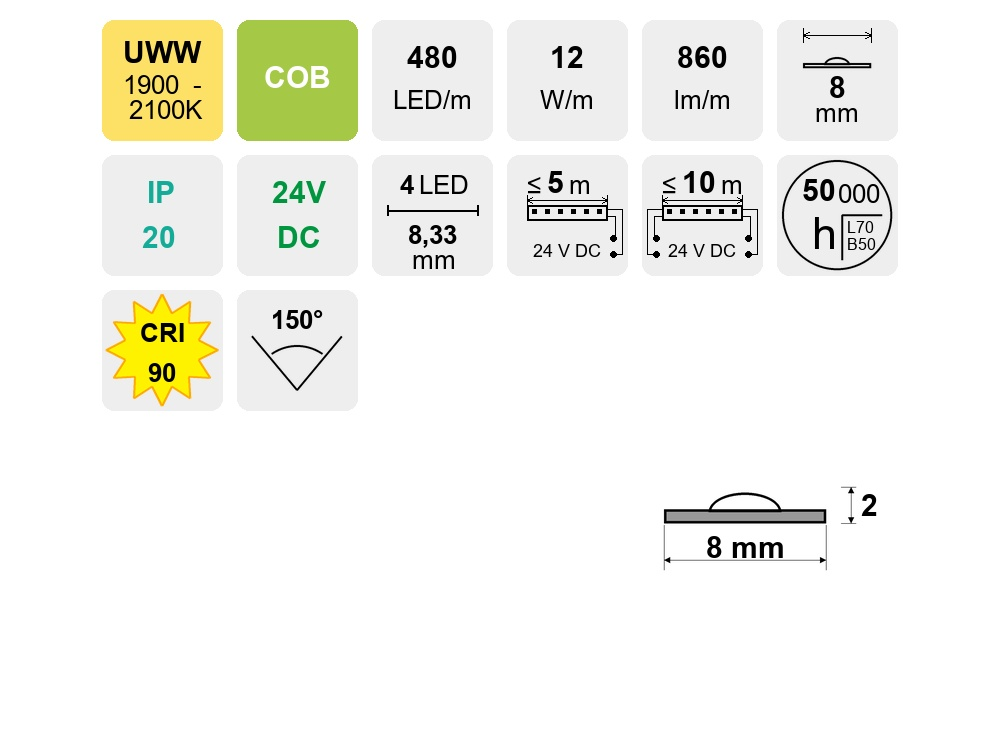
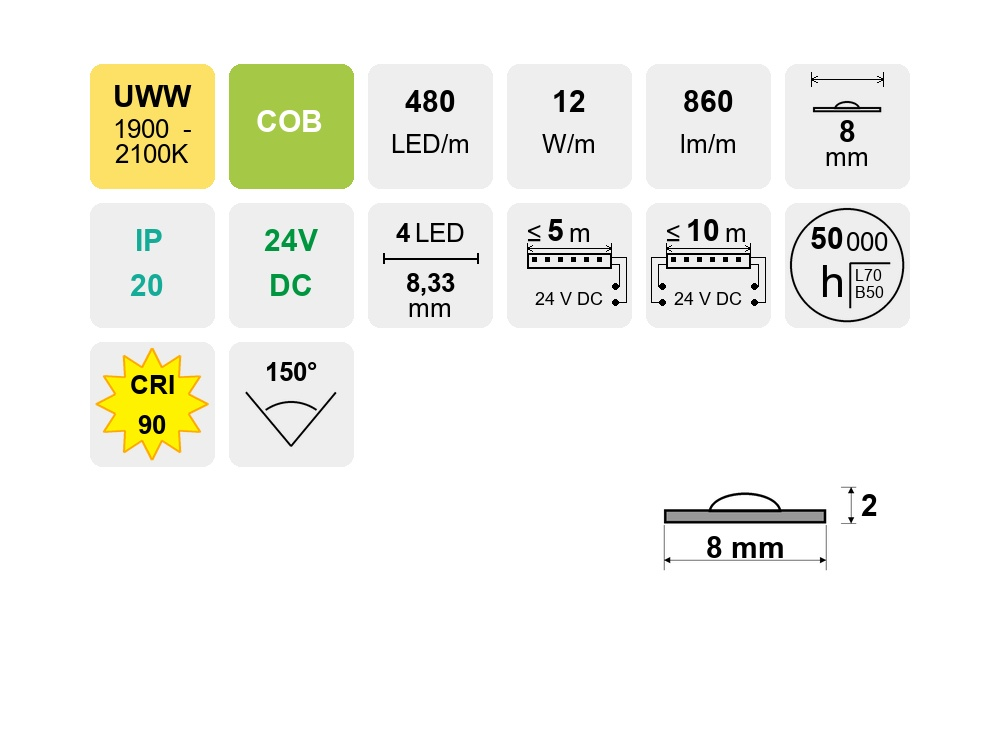
Byly opraveny různé drobnosti a odstraněny nepotřebné soubory.

diff --git a/drawer.py b/drawer.py
@@ -260,16 +260,16 @@ class LedImageGenerator:
             
         w_v = draw.textbbox((0,0), voltage_text, font=f_circ)[2]
         text_x = x + (size - w_v) / 2
-        text_y = y + 85
+        text_y = y + 80
         draw.text((text_x, text_y), voltage_text, fill="black", font=f_circ)
 
         h_v = draw.textbbox((0,0), voltage_text, font=f_circ)[3] - draw.textbbox((0,0), voltage_text, font=f_circ)[1]
-        text_center_y = text_y + h_v / 2
-        v_gap = 8 
+        text_center_y = text_y + 4 + h_v / 2
+        v_gap = 6 
         dot_y_top = text_center_y - v_gap
         dot_y_bot = text_center_y + v_gap
-        dot_x_right = text_x + w_v + 12
-        dot_x_left = text_x - 12
+        dot_x_right = text_x + w_v + 6
+        dot_x_left = text_x - 6
         dot_r = 3
 
         def draw_side(side):
@@ -770,7 +770,7 @@ class LedImageGenerator:
                     # Вторая строка (3500K)
                     txt2 = f"{k2}K"
                     w2 = draw.textbbox((0,0), txt2, font=self.f_mid)[2]
-                    draw.text((x + (self.size - w2) / 2, y + 75), txt2, fill="black", font=self.f_mid)
+                    draw.text((x + (self.size - w2) - 50 / 2, y + 75), txt2, fill="black", font=self.f_mid)
                 elif kelvin:
                     # Если кельвин просто одним числом
                     w_k = draw.textbbox((0,0), kelvin, font=self.f_mid)[2]
